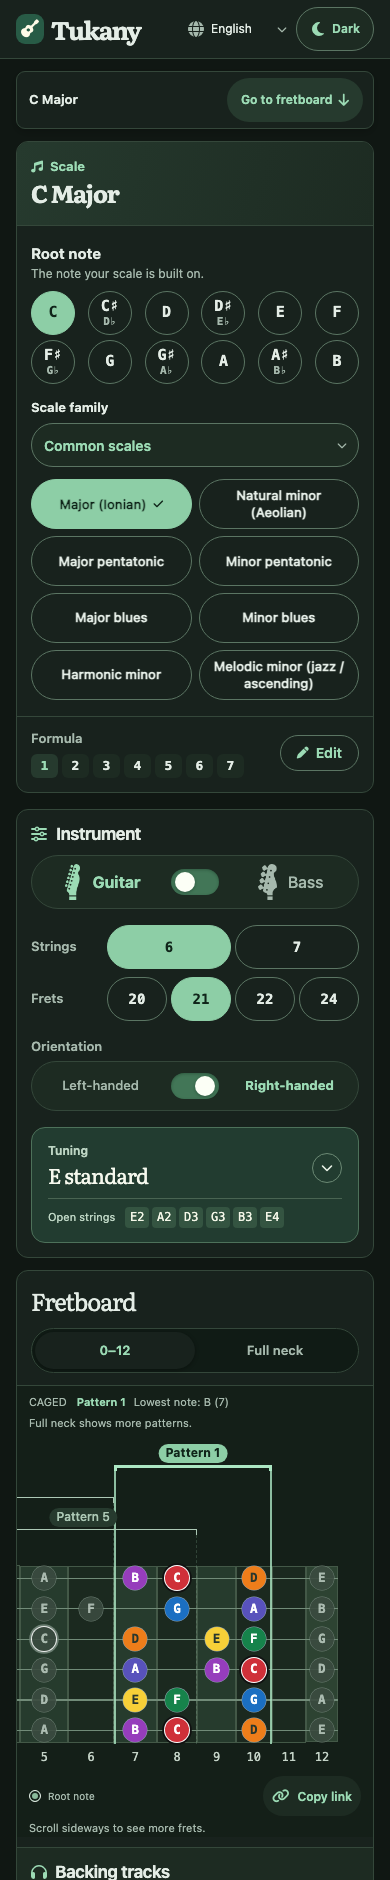
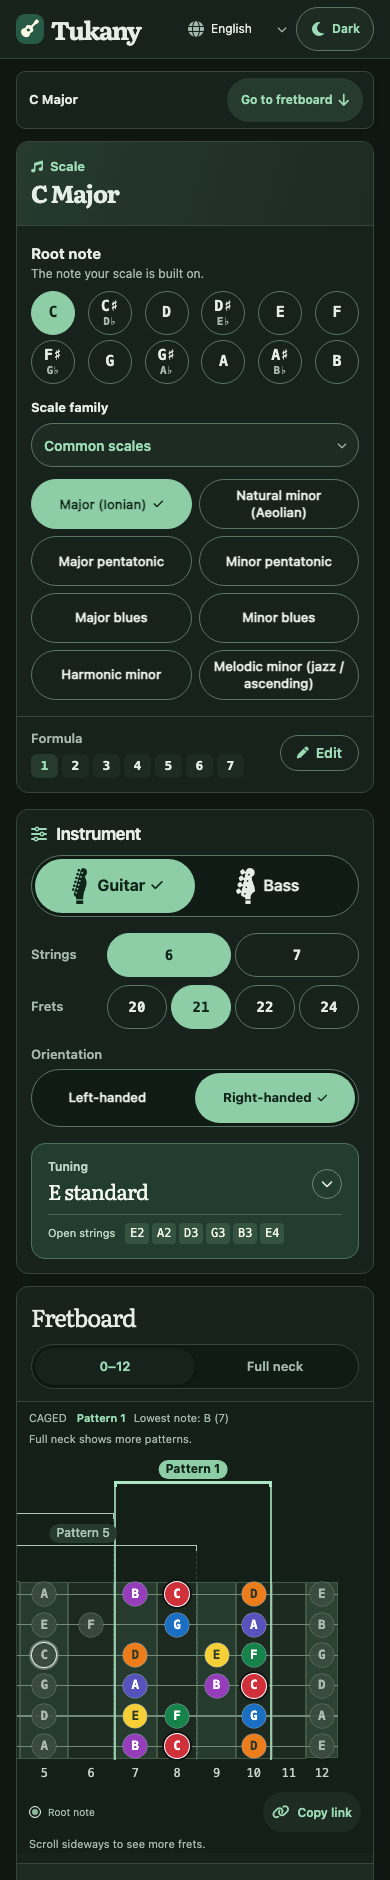
Make the selected instrument and orientation unmistakable

Changed region(s): [[0.0308, 0.4319, 0.9231, 1.0], [0.6154, 0.7096, 0.8, 0.7404]]

diff --git a/public/styles.css b/public/styles.css
@@ -509,12 +509,37 @@ main {
 }
 .switch-control {
   display: grid;
-  grid-template-columns: minmax(0, 1fr) 56px minmax(0, 1fr);
-  align-items: center;
-  background: var(--subtle);
-  border: 1px solid var(--rule);
+  grid-template-columns: repeat(2, minmax(0, 1fr));
+  isolation: isolate;
+  padding: 3px;
+  background: var(--segmented);
+  border: 1px solid var(--control-border);
   border-radius: var(--pill-radius);
-  padding: 2px;
+  touch-action: pan-y pinch-zoom;
+  user-select: none;
+}
+.switch-control label {
+  grid-row: 1;
+  z-index: 1;
+  margin: 0;
+}
+.switch-control label:first-of-type,
+.switch-thumb {
+  grid-column: 1;
+}
+.switch-control label:last-of-type {
+  grid-column: 2;
+}
+.switch-thumb {
+  grid-row: 1;
+  border-radius: var(--pill-radius);
+  background: var(--accent-solid);
+  pointer-events: none;
+  transition: transform 160ms ease-out;
+}
+.switch-control:not([data-preview]):has(label:last-of-type input:checked) .switch-thumb,
+.switch-control[data-preview='1'] .switch-thumb {
+  transform: translateX(100%);
 }
 .switch-control label,
 .number-keys label {
@@ -535,27 +560,36 @@ main {
 }
 .switch-option {
   min-height: 44px;
+  height: 100%;
   padding: 4px;
   display: flex;
   align-items: center;
   justify-content: center;
-  gap: 8px;
-  margin: 0;
+  gap: 6px;
   border-radius: var(--pill-radius);
-  color: var(--muted);
+  color: var(--ink);
   font-size: 13px;
-  font-weight: 500;
+  font-weight: 550;
+  line-height: 1.2;
 }
 #instrument .switch-option {
   min-height: 48px;
   font-size: 16px;
 }
-.switch-control input:checked + .switch-option {
-  color: var(--accent);
+.switch-check {
+  flex: none;
+  font-size: 0.82em;
+  visibility: var(--check-visibility, hidden);
+}
+.switch-control:not([data-preview]) input:checked + .switch-option,
+.switch-control[data-preview='0'] label:first-of-type .switch-option,
+.switch-control[data-preview='1'] label:last-of-type .switch-option {
+  --check-visibility: visible;
+  color: var(--accent-contrast);
   font-weight: 700;
 }
-.switch-control label:hover .switch-option {
-  background: var(--pale);
+.switch-control[data-preview] input {
+  cursor: grabbing;
 }
 .instrument-glyph {
   flex: 0 0 24px;
@@ -568,47 +602,6 @@ main {
 }
 .bass-headstock {
   --headstock: url('./assets/instruments/bass-headstock.png');
-}
-.switch-track {
-  --slide-position: 0%;
-  position: relative;
-  width: 56px;
-  height: 44px;
-  touch-action: pan-y;
-  user-select: none;
-  cursor: grab;
-}
-.switch-control:has(label:last-child input:checked) .switch-track {
-  --slide-position: 100%;
-}
-.switch-track::before {
-  content: '';
-  position: absolute;
-  inset: 9px 4px;
-  border-radius: var(--pill-radius);
-  background: #295740;
-  box-shadow: inset 0 1px 3px #10271955;
-}
-.switch-thumb {
-  position: absolute;
-  top: 12px;
-  left: calc(50% - 20px);
-  width: 20px;
-  height: 20px;
-  border-radius: 50%;
-  background: #fcfff6;
-  box-shadow: 0 1px 3px #001c1359;
-  transform: translateX(var(--slide-position));
-  transition: transform 180ms cubic-bezier(0.2, 0.8, 0.2, 1);
-}
-.switch-track.is-dragging {
-  cursor: grabbing;
-}
-.switch-track.is-dragging .switch-thumb {
-  transition: none;
-}
-:root[data-theme='dark'] .switch-track::before {
-  background: #427657;
 }
 .instrument-counts {
   display: grid;
@@ -856,15 +849,15 @@ button.tuning-picker {
   }
 }
 @media (forced-colors: active) {
-  .instrument-glyph {
+  .switch-control {
     forced-color-adjust: none;
-    background-color: CanvasText;
+    --accent-solid: Highlight;
+    --accent-contrast: HighlightText;
+    --segmented: Canvas;
+    --control-border: ButtonText;
+    --ink: CanvasText;
+    --focus: Highlight;
   }
-  .switch-track::before,
-  .switch-thumb {
-    border: 2px solid ButtonText;
-  }
-  .switch-thumb,
   .number-keys input:checked + span {
     forced-color-adjust: none;
     background: Highlight;

diff --git a/public/index.html b/public/index.html
@@ -175,6 +175,7 @@
               <fieldset class="setup-switch" id="instrument">
                 <legend class="sr-only" data-i18n="instrument">Instrument</legend>
                 <div class="switch-control">
+                  <span class="switch-thumb" aria-hidden="true"></span>
                   <label
                     ><input type="radio" name="instrument" value="guitar" checked />
                     <span class="switch-option">
@@ -183,11 +184,9 @@
                         aria-hidden="true"
                       ></span>
                       <span data-i18n="guitar">Guitar</span>
+                      <i class="switch-check fa-solid fa-check" aria-hidden="true"></i>
                     </span>
                   </label>
-                  <span class="switch-track" aria-hidden="true"
-                    ><span class="switch-thumb"></span
-                  ></span>
                   <label
                     ><input type="radio" name="instrument" value="bass" />
                     <span class="switch-option">
@@ -196,6 +195,7 @@
                         aria-hidden="true"
                       ></span>
                       <span data-i18n="bass">Bass</span>
+                      <i class="switch-check fa-solid fa-check" aria-hidden="true"></i>
                     </span>
                   </label>
                 </div>
@@ -213,16 +213,20 @@
               <fieldset id="hand" class="setup-switch">
                 <legend data-i18n="hand">Orientation</legend>
                 <div class="switch-control">
+                  <span class="switch-thumb" aria-hidden="true"></span>
                   <label
                     ><input type="radio" name="hand" value="left" />
-                    <span class="switch-option" data-i18n="left">Left-handed</span>
+                    <span class="switch-option"
+                      ><span data-i18n="left">Left-handed</span
+                      ><i class="switch-check fa-solid fa-check" aria-hidden="true"></i
+                    ></span>
                   </label>
-                  <span class="switch-track" aria-hidden="true"
-                    ><span class="switch-thumb"></span
-                  ></span>
                   <label
                     ><input type="radio" name="hand" value="right" checked />
-                    <span class="switch-option" data-i18n="right">Right-handed</span>
+                    <span class="switch-option"
+                      ><span data-i18n="right">Right-handed</span
+                      ><i class="switch-check fa-solid fa-check" aria-hidden="true"></i
+                    ></span>
                   </label>
                 </div>
               </fieldset>

diff --git a/docs/assets/README.md b/docs/assets/README.md
@@ -1,7 +1,8 @@
 # Documentation media
 
-These assets show the actual Tukany interface and generated output. UI captures
-use local build `7af9dc2c6224` with reduced motion and all local fonts loaded.
+These assets show the actual Tukany interface and generated output. The desktop and mobile
+workspace captures and walkthrough use local build `534f8810212d` with reduced
+motion and all local fonts loaded.
 The browser requested a dark color scheme for every capture. Fresh sessions
 opened in Light, and the saved Dark choice restored the dark palette.
 
@@ -17,8 +18,8 @@ opened in Light, and the saved Dark choice restored the dark palette.
   Scale and instrument settings share a row above the panel titled “Fretboard”. PDF customization follows the panel.
   The Scale card shows C major, its root note and its degrees. Twelve circles
   show all available roots. The scale family menu opens on Common scales, with
-  Major (Ionian) selected. The instrument card’s Guitar and Bass labels have matching headstock icons, with
-  Guitar and Right-handed selected. The numeric controls
+  Major (Ionian) selected. The instrument card shows both headstock icons. Filled
+  segments and checkmarks identify Guitar and Right-handed as the selected options. The numeric controls
   show six strings and 21 frets. The tuning picker includes the E standard pitches.
   The inline caption identifies Pattern 1 and its lowest note B (7). The backing-track
   finder shows C major and Guitar, with Any style and Any tempo selected before a
@@ -36,7 +37,7 @@ opened in Light, and the saved Dark choice restored the dark palette.
 - `mobile-dark.png` shows the same 390 × 1880 phone layout in Dark, including
   the appearance control, instrument icons, and fixed-size neck.
   Switching appearance preserves the measured page positions.
-- `mobile-picker.png` shows the Pentatonic family at 390 × 860 CSS pixels.
+- `mobile-picker.png` shows the Pentatonic family at 390 × 860 CSS pixels in build `7af9dc2c6224`.
   The card and sticky shortcut still show C major while the player browses.
 - `walkthrough.gif` opens with C major. The player browses the Pentatonic
   family, chooses A as the root and Minor pentatonic as the scale, and selects

diff --git a/docs/design.md b/docs/design.md
@@ -71,9 +71,8 @@ has alternative names. The reference buttons follow the current note or degree
 mode. Short labels fit in a circle. Longer labels expand to a pill. Repeated setup cards,
 practice prose, and the PDF configuration summary are removed.
 
-The instrument and orientation switches each show two labeled positions. The
-sliding indicator marks the current choice. Players can select either label or
-tap or drag the switch. Guitar shows a Telecaster headstock with six tuning pegs.
+The instrument and orientation switches each show two labeled positions. A filled pill slides behind the selected label, which also shows a checkmark.
+Players can tap a label, drag to either side, or use the arrow keys. Guitar shows a Telecaster headstock with six tuning pegs.
 Bass shows a Fender bass headstock with four. Both icons follow their labels’
 color in light and dark themes. The available string and fret
 counts appear as numeric choices that players can select directly. The tuning

diff --git a/docs/testing.md b/docs/testing.md
@@ -79,8 +79,8 @@ Serve a fresh build with `node scripts/serve.mjs` and check the following:
   count while editing to check that the draft state resets cleanly.
 - Check that the instrument and handedness choices are visible on phones in all
   three languages. Select Guitar, Bass, Right-handed, and Left-handed by pointer
-  and by keyboard. Tap and drag each switch. Check that its slider moves toward the selected label
-  and that the keyboard focus is visible. Select the numeric string and fret
+  and by keyboard. Tap and drag each switch. Check that the filled pill and checkmark move to the selected
+  label in both themes and that keyboard focus is visible. Select the numeric string and fret
   counts, then confirm the tuning picker shows the matching open pitches. Changing handedness
   should mirror the board and range labels while keeping the same fingering points.
   Verify the choice on reload and when reopening a shared link.
